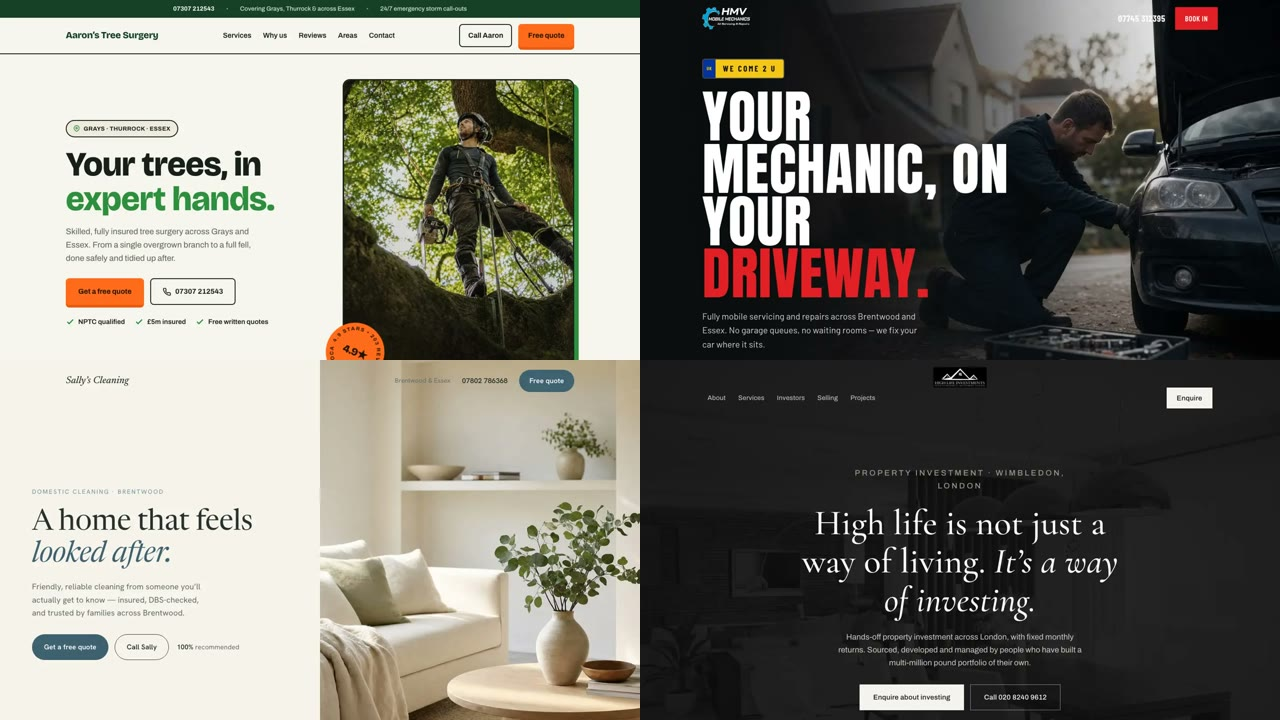
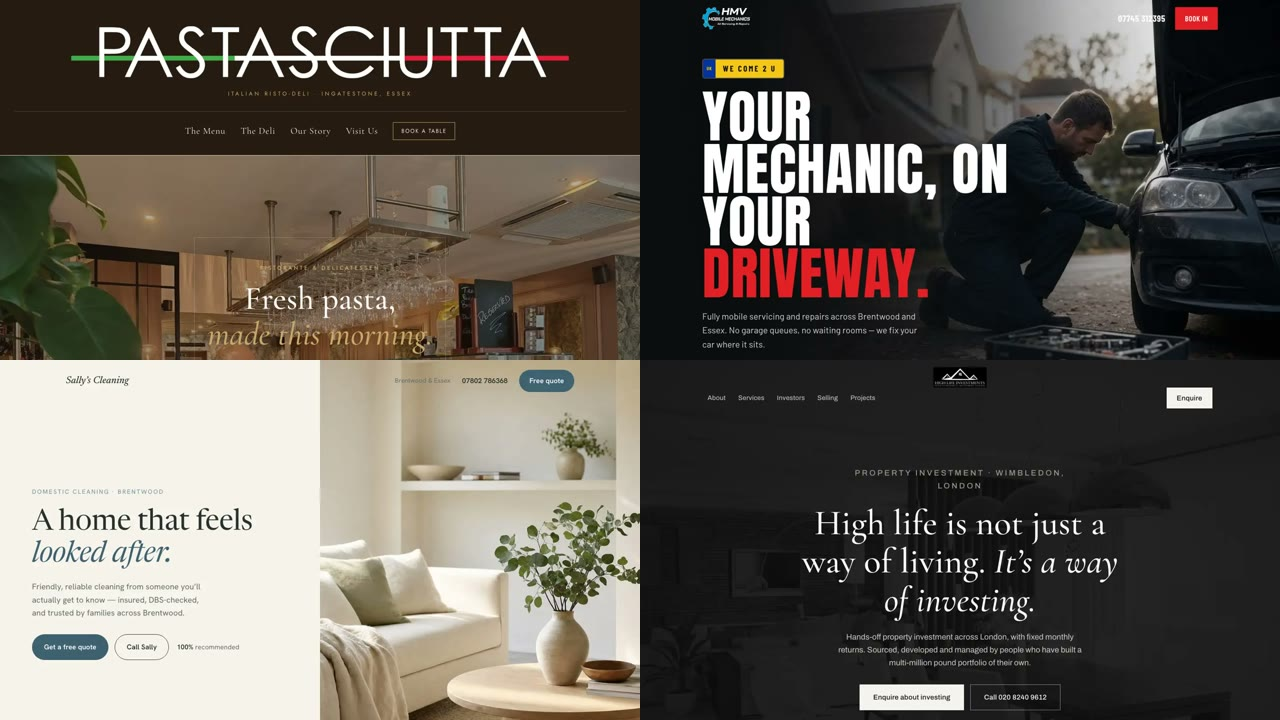
Swap in Pastasciutta and Studio One

Changed region(s): [[0.0, 0.0, 0.5, 0.5194]]

diff --git a/README.md b/README.md
@@ -7,9 +7,9 @@
 <table>
   <tr>
     <td width="50%" valign="top">
-      <img src="assets/aarons.jpg" alt="Aaron's Tree Surgery homepage">
-      <b>Aaron's Tree Surgery</b> · Tree surgeon<br>
-      A grounded, natural site that puts 203 five-star reviews front and centre.
+      <img src="assets/pastasciutta.jpg" alt="Pastasciutta homepage">
+      <b>Pastasciutta</b> · Italian deli<br>
+      The Ingatestone risto-deli: pasta, wine and a room you can almost smell from the homepage.
     </td>
     <td width="50%" valign="top">
       <img src="assets/hmv.jpg" alt="HMV Mobile Mechanics homepage">
@@ -36,14 +36,14 @@
       An elegant black and gold site for a Sri Lankan Tamil restaurant in Wimbledon.
     </td>
     <td width="50%" valign="top">
-      <img src="assets/mortons.jpg" alt="Mortons Personal Fitness homepage">
-      <b>Mortons Personal Fitness</b> · Personal training<br>
-      A warm, motivating site for a friendly personal training club in Brentwood.
+      <img src="assets/studioone.jpg" alt="Studio One homepage">
+      <b>Studio One</b> · Barber<br>
+      Barber and grooming in Gants Hill: sharp, local and easy to book.
     </td>
   </tr>
 </table>
 
-The other 18 cover gyms, a lash studio, a roofer, a plasterer, a cake maker, a builder, an Italian deli, a butcher, a bakery, a barber, a photographer, a nail salon and several restaurants and bars.
+The other 18 cover a tree surgeon, a personal trainer, gyms, a lash studio, a roofer, a plasterer, a cake maker, a builder, a butcher, a bakery, a photographer, a nail salon and several restaurants and bars.
 
 ## How each one is made
 
